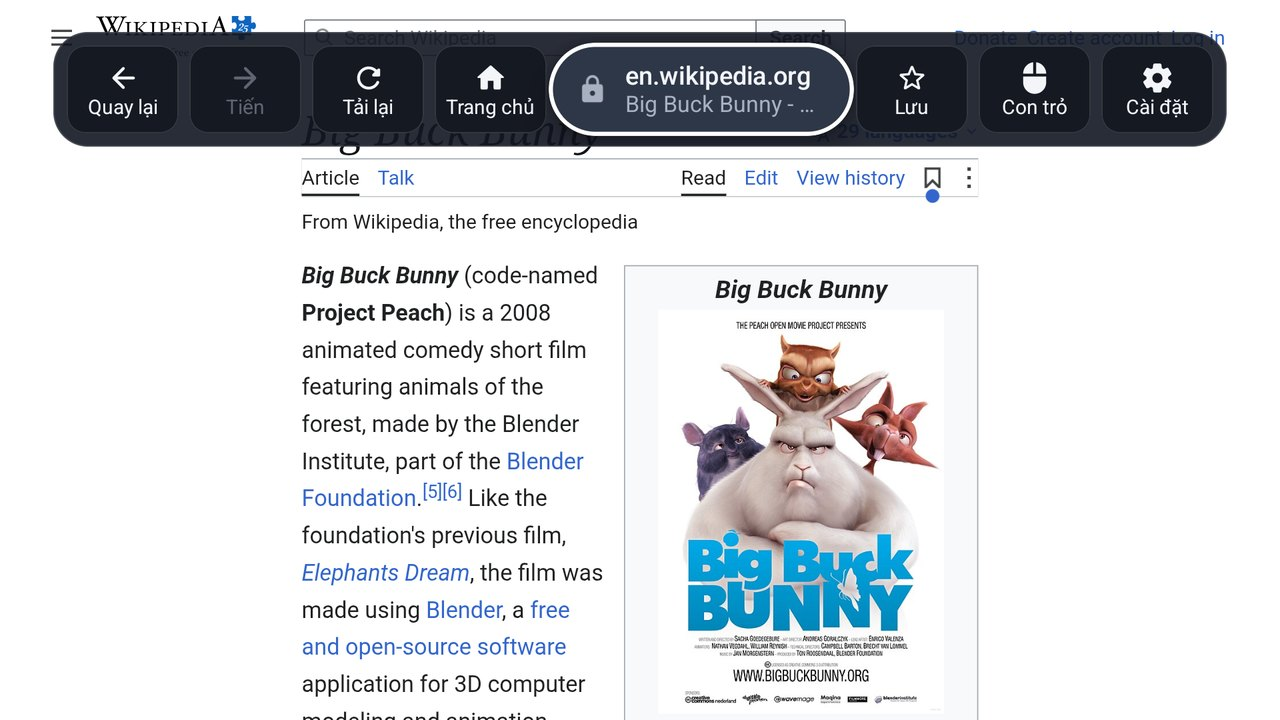
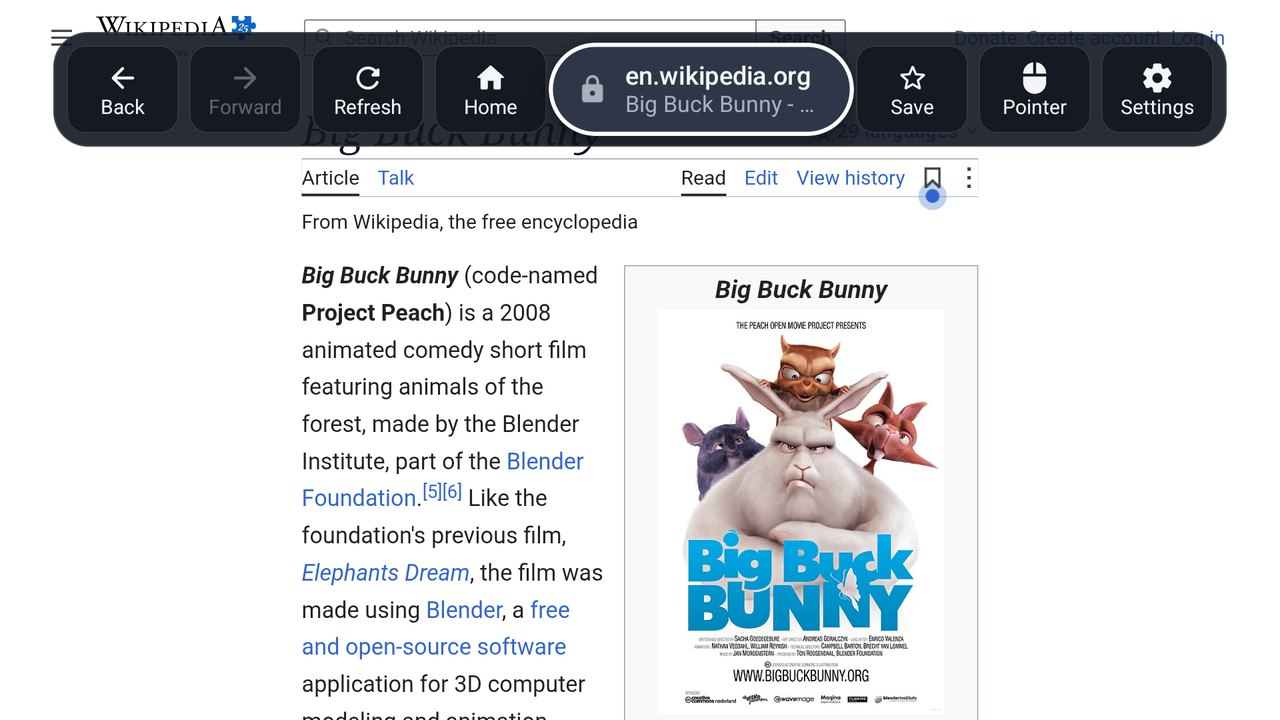
English screenshots, language gallery
Re-captured the README screenshots from the TV with the English UI, added the
Settings > General (language picker) shot and a 10-language contact sheet.

diff --git a/README.md b/README.md
@@ -55,10 +55,16 @@ an on-screen pointer you steer with the D-pad, one-press access to everything, v
 | **Hold → to seek:** target time and bar preview, one seek on release | **OK** shows controls; OK again plays / pauses |
 | ![Floating browser toolbar](docs/screenshots/02-browser-toolbar.jpg) | ![Virtual cursor on a web page](docs/screenshots/03-web-cursor.jpg) |
 | **Menu** opens the floating toolbar | The on-screen pointer; **OK** clicks |
-| ![Ad-blocking settings](docs/screenshots/07-settings-ad-blocking.jpg) | ![Browsing settings](docs/screenshots/08-settings-browsing.jpg) |
-| Filter lists with rule counts and update dates | Pointer speed, desktop sites, page size |
-| ![Error screen](docs/screenshots/09-error-state.jpg) | |
-| Clear errors with one-press recovery | |
+| ![General settings with the language picker](docs/screenshots/06-settings-general.jpg) | ![Ad-blocking settings](docs/screenshots/07-settings-ad-blocking.jpg) |
+| Language picker (Automatic follows the TV), search engine, background | Filter lists with rule counts and update dates |
+| ![Browsing settings](docs/screenshots/08-settings-browsing.jpg) | ![Error screen](docs/screenshots/09-error-state.jpg) |
+| Pointer speed, desktop sites, page text size | Clear errors with one-press recovery |
+
+### Ten languages, live
+
+The UI follows the TV's system language; this is Settings in every translation (switching needs no restart):
+
+![Settings in English, Vietnamese, Spanish, French, German, Portuguese, Russian, Japanese, Korean and Chinese](docs/screenshots/10-languages.jpg)
 
 ## Install
 
